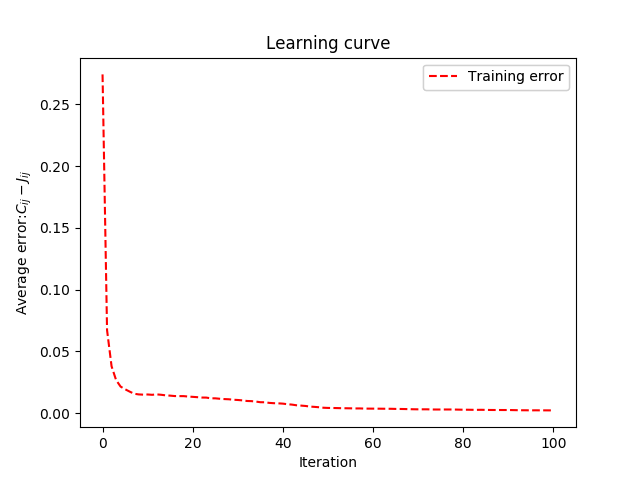
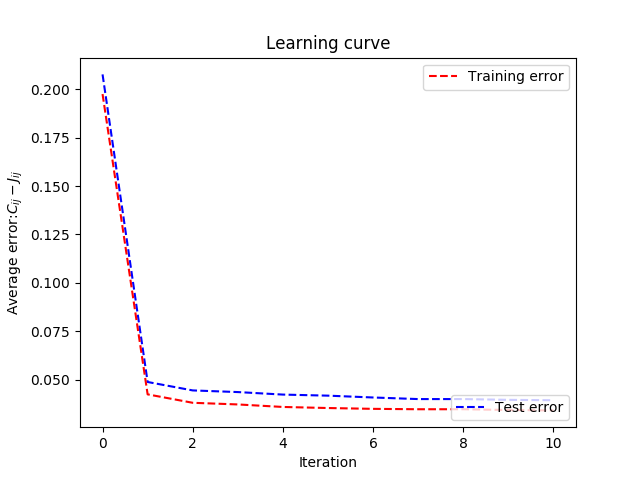
Fixed learning curve for run_pairwise.py

diff --git a/fit_pairwise.py b/fit_pairwise.py
@@ -175,14 +175,15 @@ class fit_pairwise(object):
         J_lin = self.grad_descent(J0_lin, iter, gibbs_steps)
         #Get model correlations matrix
         J = J_lin.reshape((self.m,self.m))
+        mod_cov = self.model_cov.reshape((self.m,self.m))
         #m_cov = self.model_cov.reshape((self.m,self.m))
         if self.save_loss:
             if self.test is not None:
-                return J, self.emp_cov_train ,self.model_cov_tmp,self.samples, self.train_error, self.test_error
+                return J, self.emp_cov_train ,mod_cov,self.samples, self.train_error, self.test_error
             else:
-                return J, self.emp_cov_train ,self.model_cov_tmp,self.samples, self.train_error
+                return J, self.emp_cov_train ,mod_cov,self.samples, self.train_error
         else:
-            return J, self.emp_cov_train ,self.model_cov_tmp,self.samples
+            return J, self.emp_cov_train ,mod_cov,self.samples
 
 
 
@@ -210,19 +211,19 @@ class fit_pairwise(object):
         n,m,k = np.shape(self.samples_batch)
         # Combine all montecarlo
         for i in range(0,k):
-            self.model_cov_tmp = np.dot(self.samples_batch[:,:,i].T,self.samples_batch[:,:,i])/n
-            model_covs[:,i] = self.model_cov_tmp.flatten()
-        model_cov = np.sum(model_covs, axis=1)/self.n_pools;
+            model_cov_tmp = np.dot(self.samples_batch[:,:,i].T,self.samples_batch[:,:,i])/n
+            model_covs[:,i] = model_cov_tmp.flatten()
+        self.model_cov = np.sum(model_covs, axis=1)/self.n_pools;
         #Calculate the difference in mpdel correlation and emperical correlation
-        Dloss_train = (-model_cov + self.emp_cov_train.flatten())
+        Dloss_train = (-self.model_cov + self.emp_cov_train.flatten())
 
         if self.save_loss:
-            self.train_error.append(max(Dloss_train))
+            self.train_error.append(max(abs(Dloss_train)))
 
         if self.emp_cov_test is not None:
-            Dloss_test = (-model_cov + self.emp_cov_test.flatten())
+            Dloss_test = (-self.model_cov + self.emp_cov_test.flatten())
             if self.save_loss:
-                self.test_error.append(Dloss_test)
+                self.test_error.append(max(abs(Dloss_test)))
 
         return Dloss_train
 

diff --git a/run_pairwise.py b/run_pairwise.py
@@ -3,36 +3,46 @@ from load_data import *
 from fit_pairwise import *
 from data_preperation import *
 from likelihood_pairwise import likelihood_pairwise
-data = get_mat_data()
+#Experimental data
+#data = get_mat_data()
 #data = data[:40,:4]
-[m,n] = np.shape(data);
+
+#BPP data
+train_s,train_n, test_s,test_n  = load_bpp_data(nr_seed=30,factor_test=0.1,split=True)
+#Make it compatible with the code
+train = train_s.T
+test = test_s.T
+#You have use the data you are going to use fpr the shape.
+[m,n] = np.shape(train)
 J0 = np.zeros((n,n))
 
-learning_rate = 0.7
+
+learning_rate = 1
 #NB Chosse M-samples such that it can be divded equally beteen all processes.
-M_samples = 100000
+M_samples = 40000
 # Number of cores for multiprocess.
-n_jobs = 2;
-entropy = fit_pairwise(data,J0,learning_rate,M_samples,n_jobs,save_loss=True)
-iter = 100;
+n_jobs = 2
+entropy = fit_pairwise(train,J0,learning_rate,M_samples,n_jobs,test=test,save_loss=True)
+iter = 10;
 #Recommended to have twice as many as neuronss.
-gibbs_steps = 80
+gibbs_steps = 2*n
 
 verbose = str(gibbs_steps)+"_"+str(iter)+"_"+str(M_samples)+"_"+str(learning_rate)
 
-
 start_time = time.time()
-J, emp_cov ,mod_cov,samples,train_error = entropy.fit_pairwise(iter,gibbs_steps);
+J, emp_cov ,mod_cov,samples,train_error, test_error = entropy.fit_pairwise(iter,gibbs_steps);
 print("--- %s seconds ---" % (time.time() - start_time))
 
 train_error.pop(0)
+test_error.pop(0)
 iteration = range(0,np.size(train_error))
 
-betas = np.linspace(0,1,num=10)
-neg_log_L = likelihood_pairwise(data, M_samples, J, betas)
-print(neg_log_L)
+#Use it if the likelihoods are necessary.
+#betas = np.linspace(0,1,num=10)
+#neg_log_L = likelihood_pairwise(data, M_samples, J, betas)
+#print(neg_log_L)
 
-learning_curve(iteration, train_error)
+learning_curve(iteration, train_error,test_error=test_error)
 correlation_graph_data(emp_cov,verbose)
 correlation_graph_data(mod_cov,verbose,model=False)
 comparison(emp_cov.flatten(), mod_cov.flatten(),verbose,correlation=True)

diff --git a/data_preperation.py b/data_preperation.py
@@ -55,6 +55,37 @@ def get_bpp_data_idx():
     neuron_ids = genfromtxt('./dataset/dimension3_150simplicies_sorted/neuron_ids.csv', delimiter=',')
     return simp_ids, neuron_ids
 
+def load_bpp_data(nr_seed,factor_test,split=False):
+
+    seeds = np.array(range(0,nr_seed))
+    np.random.shuffle(seeds)
+    cut_off = int(np.floor(factor_test*30))
+    test_seed = seeds[:cut_off]
+    train_seed = seeds[cut_off:]
+
+
+    for i, seed in enumerate(train_seed):
+        if i==0:
+            train = genfromtxt('./dataset/dimension3_150simplicies_sorted/simplex_train_150_'+str(seed)+'.csv', delimiter=',')
+            np.array(train)
+        else:
+            data = genfromtxt('./dataset/dimension3_150simplicies_sorted/simplex_train_150_'+str(seed)+'.csv', delimiter=',')
+            np.array(data)
+            train = np.append(train,data,axis=1)
+
+    for i, seed in enumerate(test_seed):
+        if i==0:
+            test = genfromtxt('./dataset/dimension3_150simplicies_sorted/simplex_train_150_'+str(seed)+'.csv', delimiter=',')
+            np.array(test)
+        else:
+            data = genfromtxt('./dataset/dimension3_150simplicies_sorted/simplex_train_150_'+str(seed)+'.csv', delimiter=',')
+            np.array(data)
+            test = np.append(test,data,axis=1)
+    if split:
+        return train[:150,:],train[150:,:],test[:150,:],test[150:,:]
+    else:
+        return train, test
+
 def load_bpp_data_no_split(split=True):
 
     seed_all = np.array(range(0,30))
@@ -194,8 +225,7 @@ def learning_curve(iteration, train_error, test_error=None, total=False):
     ax = fig.add_subplot(111)
     if test_error is not None:
         line2, = plt.plot(I, test_error, 'b--', label="Test error")
-    else:
-        line1, = plt.plot(I, train_error, 'r--', label="Training error")
+    line1, = plt.plot(I, train_error, 'r--', label="Training error")
 
     plt.ylabel("Average error:"r'$C_{ij}-J_{ij}$')
     plt.xlabel("Iteration")
